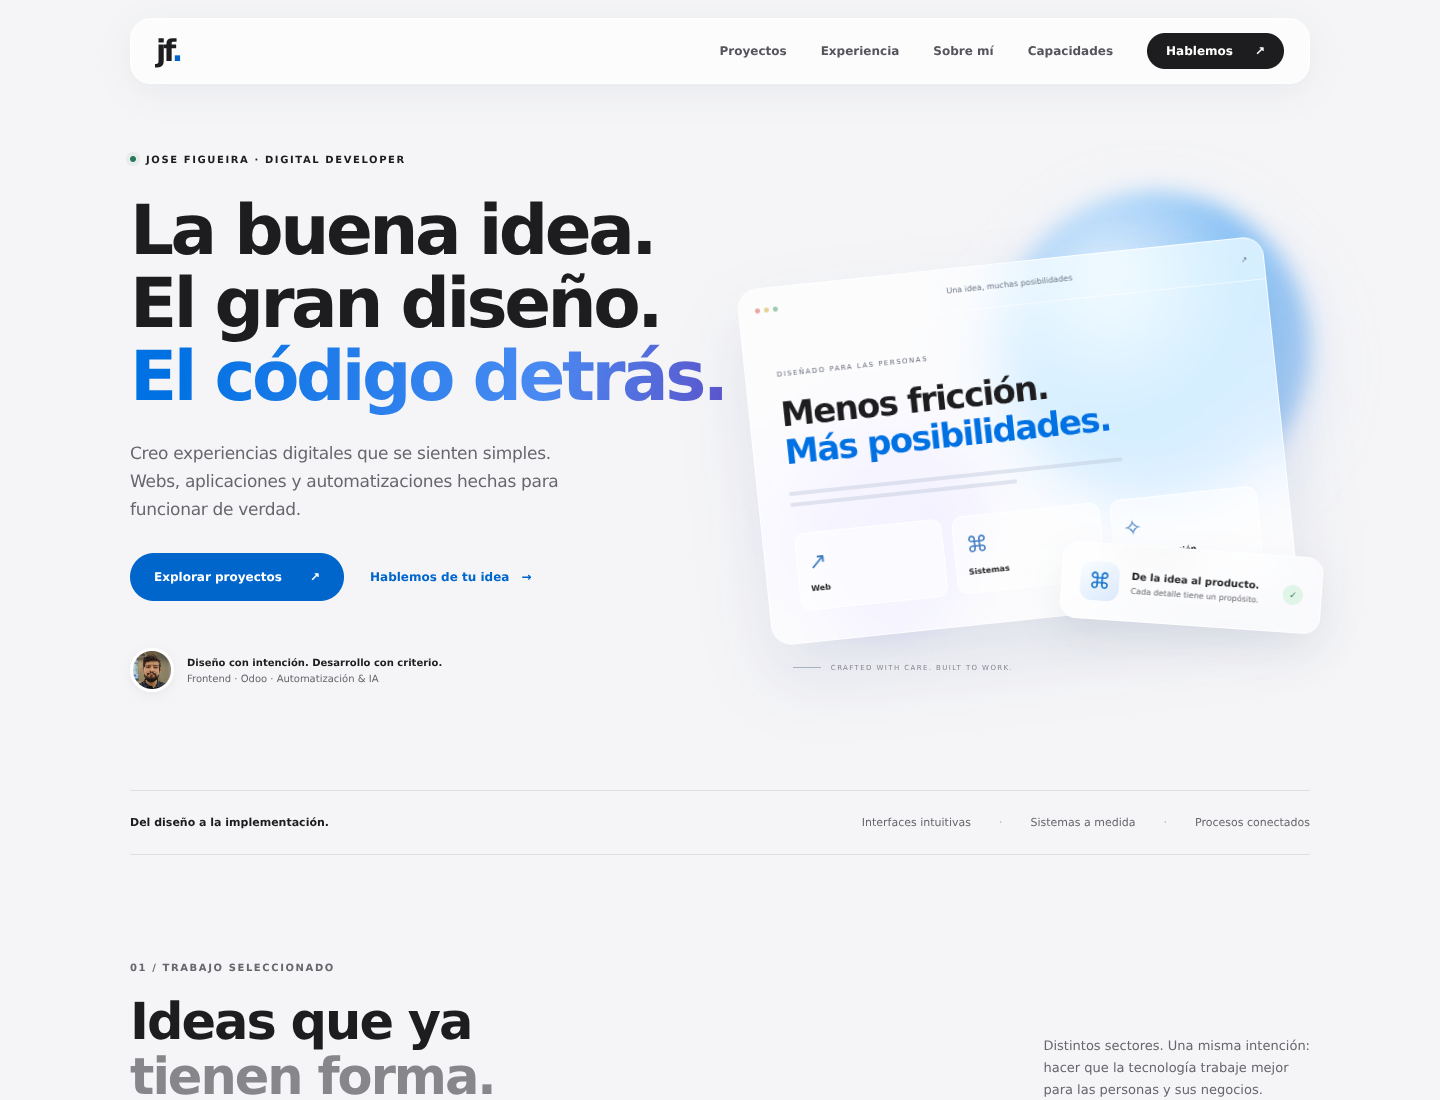
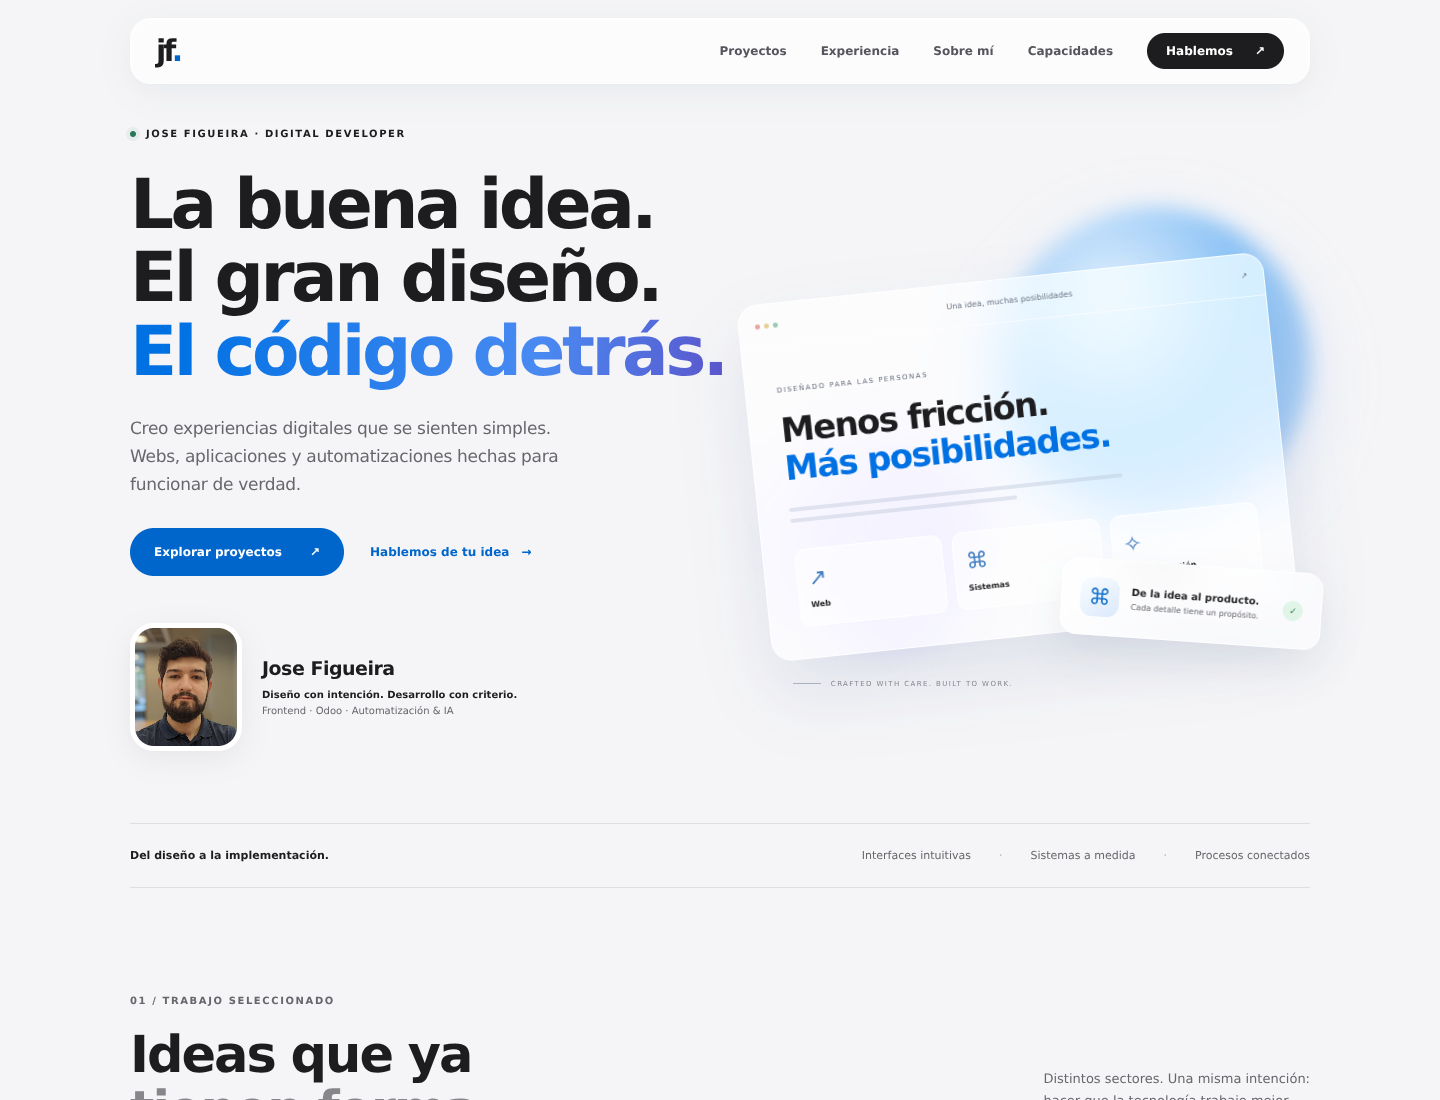
Give profile photo more prominence on desktop and mobile

diff --git a/styles.css b/styles.css
@@ -227,13 +227,23 @@ nav > a:hover {
   margin-top: 47px;
   display: flex;
   align-items: center;
-  gap: 13px;
+  gap: 20px;
 }
 .hero-person img {
+  width: 112px;
+  height: 128px;
+  flex-shrink: 0;
   object-fit: cover;
-  border-radius: 50%;
-  border: 3px solid white;
-  box-shadow: 0 3px 12px #1d1d1f10;
+  border-radius: 24px;
+  border: 5px solid white;
+  box-shadow: 0 8px 28px #1d1d1f12;
+}
+.hero-person-name {
+  display: block;
+  font-size: 19px;
+  font-weight: 600;
+  letter-spacing: -0.5px;
+  margin-bottom: 10px;
 }
 .hero-person strong {
   display: block;
@@ -2112,8 +2122,14 @@ dialog::backdrop {
     font-size: 8px;
   }
   .hero-person img {
-    width: 38px;
-    height: 38px;
+    width: 84px;
+    height: 96px;
+    border-radius: 20px;
+    border-width: 4px;
+  }
+  .hero-person-name {
+    font-size: 16px;
+    margin-bottom: 8px;
   }
   .hero-art {
     height: 360px;

diff --git a/index.html b/index.html
@@ -68,8 +68,9 @@
             >
           </div>
           <div class="hero-person">
-            <img src="foto.jpeg" width="44" height="44" alt="Jose Figueira" />
+            <img src="foto.jpeg" width="112" height="128" alt="Jose Figueira" />
             <div>
+              <b class="hero-person-name">Jose Figueira</b>
               <strong>Diseño con intención. Desarrollo con criterio.</strong
               ><span>Frontend · Odoo · Automatización & IA</span>
             </div>
